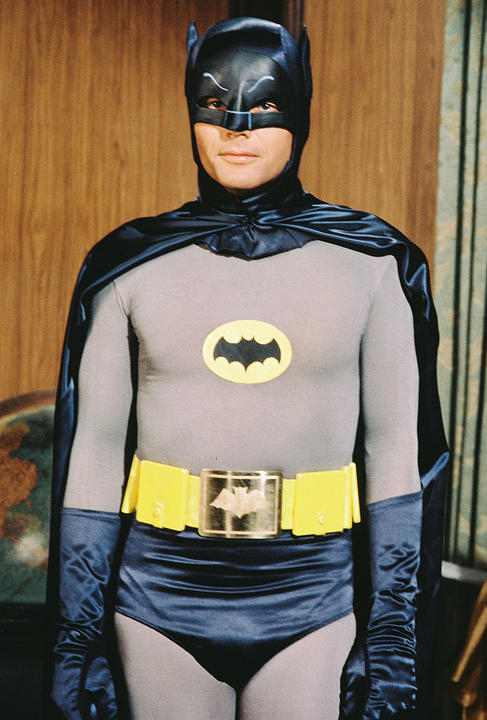
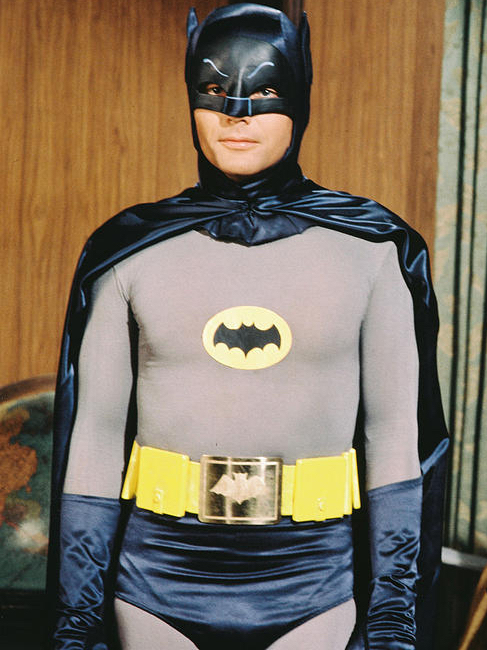
Implement responsive navigation, crop images, style buttons

diff --git a/index.html b/index.html
@@ -2,7 +2,7 @@
 <html lang="en">
   <head>
       <meta charset="utf-8">
-      <meta name="viewport" content="width=device-width, initial-scale=1, maximum-scale=1, user-scalable=0"/>
+      <meta name="viewport" content="width=device-width, initial-scale=1, shrink-to-fit=no, maximum-scale=1, user-scalable=0"/>
 
       <link rel="stylesheet" href="https://maxcdn.bootstrapcdn.com/bootstrap/4.0.0-alpha.6/css/bootstrap.min.css" integrity="sha384-rwoIResjU2yc3z8GV/NPeZWAv56rSmLldC3R/AZzGRnGxQQKnKkoFVhFQhNUwEyJ" crossorigin="anonymous">
       <link href='https://fonts.googleapis.com/css?family=Open+Sans:400,300,600' rel='stylesheet' type='text/css'>
@@ -14,36 +14,51 @@
   <body>
 
     <header role="banner">
-      <div class="main-nav" role="navigation">
-        <h1 class="name"><a href="#">Image slider</a></h1>
-        <ul class="nav">
-          <li><a href="#">Menu 1</a></li>
-          <li><a href="#">Menu 2</a></li>
-          <li><a href="#">Menu 3</a></li>
-        </ul>
-      </div>
+      <nav class="navbar navbar-toggleable-sm navbar-light bg-warning" role="navigation">
+        <div class="heading">
+          <button class="navbar-toggler navbar-toggler-right" type="button" data-toggle="collapse" data-target="#navbarSupportedContent" aria-controls="navbarSupportedContent" aria-expanded="false" aria-label="Toggle navigation">
+            <span class="navbar-toggler-icon"></span>
+          </button>
+          <h1 class="heading-name"><a class="text-black" href="#">Batman slider</a></h1>
+        </div>
+        <div class="collapse navbar-collapse" id="navbarSupportedContent">
+          <ul class="navbar-nav ml-auto">
+            <li class="nav-item">
+              <a class="nav-link" href="#">Villains</a>
+            </li>
+            <li class="nav-item">
+              <a class="nav-link" href="#">Sidekicks</a>
+            </li>
+            <li class="nav-item">
+              <a class="nav-link" href="#">Alfreds</a>
+            </li>
+          </ul>
+        </div>
+      </nav>
     </header>
 
     <main role="main">
-      <div class="slider-container">
-        <ul>
-          <li class="mySlides"><img src="images/michael_keaton_batman.jpg" alt="Michael Keaton as Batman"></li>
-          <li class="mySlides"><img src="images/christian_bale_batman.jpg" alt="Christian Bale as Batman"></li>
-          <li class="mySlides"><img src="images/lego_batman.png" alt="Lego Batman"></li>
-          <li class="mySlides"><img src="images/adam_west_batman.jpg" alt="Adam West as Batman"></li>
+      <div>
+        <ul class="slider-container">
+          <li class="slides-batman"><img class="img-fluid" src="images/adam_west_batman.jpg" alt="Adam West as Batman"></li>
+          <li class="slides-batman"><img class="img-fluid" src="images/michael_keaton_batman.jpg" alt="Michael Keaton as Batman"></li>
+          <li class="slides-batman"><img class="img-fluid" src="images/christian_bale_batman.jpg" alt="Christian Bale as Batman"></li>
+          <li class="slides-batman"><img class="img-fluid" src="images/lego_batman.jpg" alt="Lego Batman"></li>
         </ul>
         <div>
-          <span class="dot" onclick=""></span>
-          <span class="dot" onclick=""></span>
-          <span class="dot" onclick=""></span>
-          <span class="dot" onclick=""></span>
+          <span class="dot" onclick="currentSlide(1)"></span>
+          <span class="dot" onclick="currentSlide(2)"></span>
+          <span class="dot" onclick="currentSlide(3)"></span>
+          <span class="dot" onclick="currentSlide(4)"></span>
         </div>
-        <a class="btn-prev" onclick="plusSlides(-1)">&#10094;</a>
-        <a class="btn-next" onclick="plusSlides(1)">&#10095;</a>
+        <div class="slider-btns">
+          <a class="btn-prev" onclick="navigateSlider(-1)">&#10094;</a>
+          <a class="btn-next" onclick="navigateSlider(1)">&#10095;</a>
+        </div>
       </div>
     </main>
 
-    <footer role="contentinfo">
+    <footer  class="fixed-bottom" role="contentinfo">
       <span class="copyright">Copyright 2017</span>
     </footer>
 

diff --git a/CSS/styles.css b/CSS/styles.css
@@ -6,7 +6,7 @@ GENERAL STYLING
   box-sizing: border-box;
 }
 
-.mySlides {
+.slides-batman {
   display: none;
 }
 
@@ -15,18 +15,89 @@ body {
   padding: 0;
   text-align: center;
   font-family: 'Open Sans', sans-serif;
-  background-color: #000;
+  background-color: #fff;
+}
+main {
+  padding: 5% 2.5%;
 }
 
 ul {
   list-style: none;
 }
 
+a:hover {
+  text-decoration: none;
+}
+
+footer {
+  padding: .5em 0;
+  border-top: 1px solid rgba(0,0,0,.5);
+  font-size: .8em;
+}
+
+/*//////////////////////
+HEADER STYLING
+//////////////////////*/
+
+.heading {
+  text-align: left;
+}
+
+.text-black {
+  color: rgba(0,0,0,.9);
+}
+
+
 /*//////////////////////
 IMAGE SLIDER STYLING
 //////////////////////*/
 
+.slider-container {
+  padding: 0;
+}
+
+.slides-batman {
+  margin: 0 auto;
+  max-width: 450px;
+}
+
+.slider-btns {
+  font-size: 2em;
+  text-align: center;
+}
+
+.btn-prev,
+.btn-next {
+  padding: .5em .5em;
+}
+
 .btn-next:hover,
 .btn-prev:hover {
   cursor: pointer;
+}
+
+/*//////////////////////
+MEDIA QUERIES
+//////////////////////*/
+
+/*Small devices (landscape phones, 576px and up)*/
+@media (min-width: 576px) {
+
+}
+
+/*Medium devices (tablets, 768px and up)*/
+@media (min-width: 768px) {
+  .heading-name {
+    min-width: 300px;
+  }
+}
+
+/*Large devices (desktops, 992px and up)*/
+@media (min-width: 992px) {
+
+}
+
+/*Extra large devices (large desktops, 1200px and up)*/
+@media (min-width: 1200px) {
+
 }

diff --git a/JS/slider.js b/JS/slider.js
@@ -1,17 +1,18 @@
+const slides = document.getElementsByClassName("slides-batman");
+const dots = document.getElementsByClassName("dot");
 let slideIndex = 1;
 
-plusSlides = (n) => {
-  showSlides(slideIndex += n);
+navigateSlider = (n) => {
+  showSlide(slideIndex += n);
 };
 
 currentSlide = (n) => {
-  showSlides(slideIndex = n);
+  showSlide(n);
 };
 
-showSlides = (n) => {
-  const slides = document.getElementsByClassName("mySlides");
-  const dots = document.getElementsByClassName("dot");
-  if (n > slides.length) { slideIndex = 1 };
+showSlide = (n) => {
+  if (n > slides.length) { slideIndex = 1; }
+  if (n < 1) { slideIndex = slides.length; }
   for (let i = 0; i < slides.length; i++) {
     slides[i].style.display = "none";
   }
@@ -22,4 +23,4 @@ showSlides = (n) => {
   dots[slideIndex - 1].className += " active";
 };
 
-showSlides(slideIndex);
+showSlide(slideIndex);
